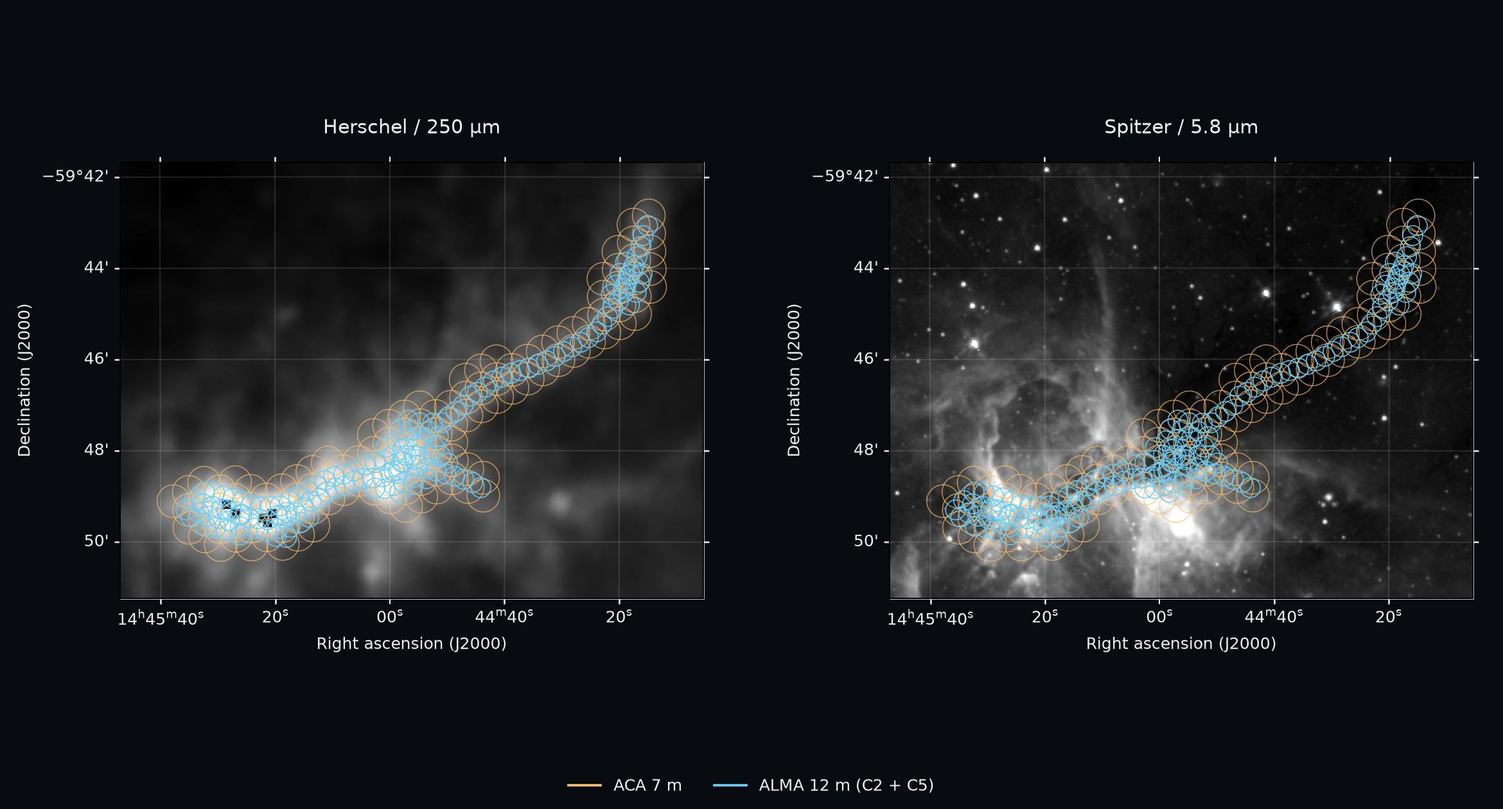
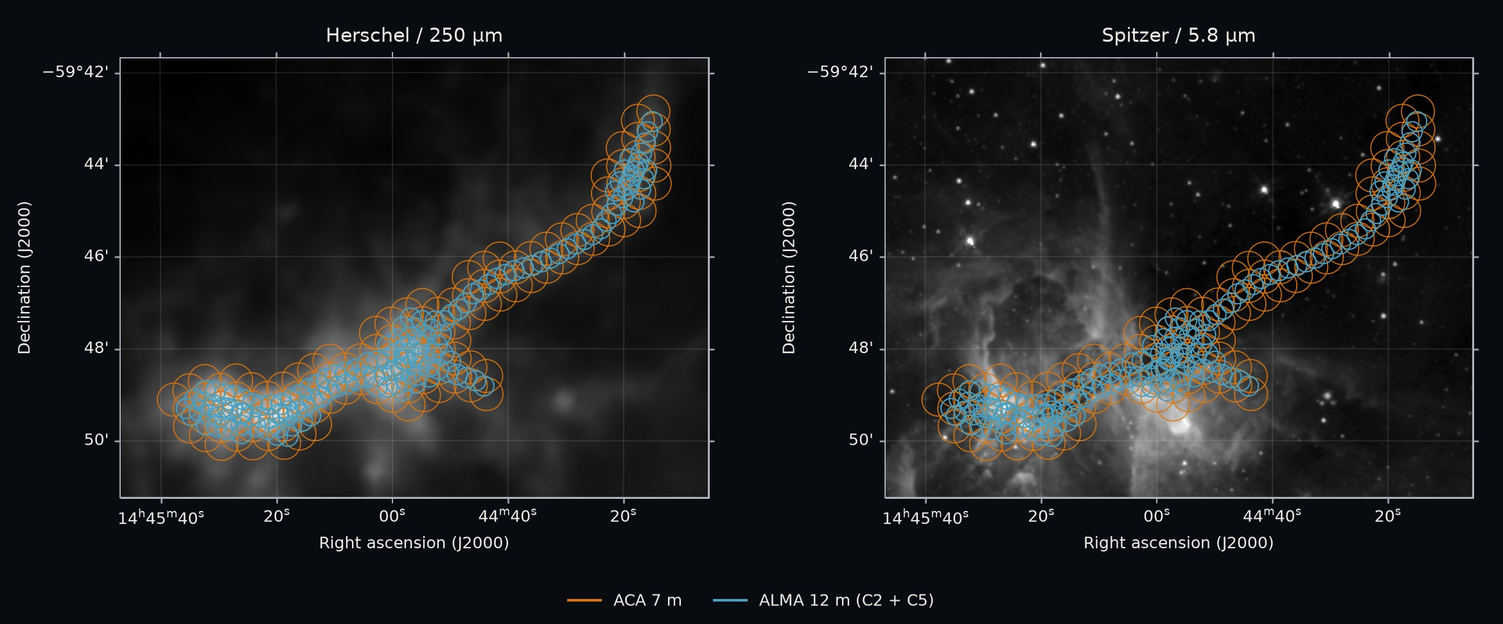
Website: footprint figure redrawn for the dark page
Darker grey maps with the saturated Herschel pixels filled, the Fig. 2
dark-mode array colours (7 m orange, 12 m teal), site text and axis colours,
and a tighter layout. Caption names the colours.

diff --git a/website/observations.html b/website/observations.html
@@ -1,1 +1,1 @@
-<!doctype html><html lang="en"><head><meta charset="utf-8"><meta name="viewport" content="width=device-width,initial-scale=1"><meta name="description" content="LANCET explores how gas assembles into stars and clusters in the G316.8 filament."><title>Observations · LANCET</title><link rel="stylesheet" href="style.css?v=open-source-1"><link rel="icon" href="assets/favicon.svg" type="image/svg+xml"><link rel="apple-touch-icon" href="assets/apple-touch-icon.png"><meta name="theme-color" content="#080b10"><link rel="canonical" href="https://xfengwei.github.io/LANCET/observations.html"><meta property="og:type" content="website"><meta property="og:site_name" content="LANCET"><meta property="og:title" content="Observations · LANCET"><meta property="og:description" content="LANCET explores how gas assembles into stars and clusters in the G316.8 filament."><meta property="og:url" content="https://xfengwei.github.io/LANCET/observations.html"><meta property="og:image" content="https://xfengwei.github.io/LANCET/assets/og-image.jpg"><meta property="og:image:width" content="1200"><meta property="og:image:height" content="630"><meta property="og:image:alt" content="The LANCET logo over a near-infrared view of the G316.8 filament"><meta name="twitter:card" content="summary_large_image"><script>document.documentElement.classList.add('js-reveal')</script></head><body><a class="skip" href="#main">Skip to content</a><header><a class="brand logo-brand" href="index.html" aria-label="LANCET home"><img src="assets/lancet-logo-web.webp?v=alpha-1" alt="LANCET" width="600" height="400"></a><nav aria-label="Main navigation"><a  href='index.html'>The project</a><a aria-current='page' href='observations.html'>Observations</a><a  href='research.html'>Research</a><a  href='team.html'>Our team</a></nav><a class="code" href="https://github.com/XFengwei/LANCET" target="_blank" rel="noopener noreferrer">Code ↗</a></header><main id="main"><section class="page-top"><span class="eyebrow">Our window into the cloud</span><h1>Collecting<br><em>faint light.</em></h1><p class="lead">Complementary telescopes connect the extended reservoir to the compact structures within it.</p></section><div class="telescope-gallery reveal" data-hold="8000"><button type="button" class="gallery-step" data-step="-1" aria-label="Previous telescopes">‹</button><div class="telescope-rows"><div class="gallery-row telescope-row--main is-visible"><a class="telescope-card telescope-card--main" href="https://www.almaobservatory.org/"><img src="assets/telescope-alma-ann13016a.jpg" alt="ALMA antennas at night beneath the Magellanic Clouds" loading="lazy"><div class="telescope-copy"><span class="eyebrow">1.3 <span class="unit">mm</span> / continuum & spectral lines</span><h3>ALMA <span aria-hidden="true">↗</span></h3><p>The 12 m C2 and C5 configurations and the ACA 7 m array resolve dense cores in the 1.3 mm continuum and in lines such as C¹⁸O, CO, H₂CO, ¹³CS and N₂D⁺; total-power line data recover the extended gas.</p><small>Image: ESO / C. Malin</small></div></a></div><div class="gallery-row"><a class="telescope-card" href="https://www.esa.int/Science_Exploration/Space_Science/Herschel"><img src="assets/telescope-herschel.jpg" alt="Artist’s impression of the Herschel space telescope" loading="lazy"><div class="telescope-copy"><span class="eyebrow">70–500 <span class="unit">μm</span> / far infrared</span><h3>Herschel <span aria-hidden="true">↗</span></h3><p>PACS and SPIRE dust maps set the temperature and column density of the whole cloud.</p><small>Image: ESA / AOES Medialab · artist’s impression</small></div></a><a class="telescope-card" href="https://www.apex-telescope.org/"><img src="assets/telescope-apex-mpifr.jpg" alt="The APEX telescope on the Chajnantor plateau" loading="lazy"><div class="telescope-copy"><span class="eyebrow">350 & 450 <span class="unit">μm</span> / 1.3 <span class="unit">mm</span></span><h3>APEX <span aria-hidden="true">↗</span></h3><p>ArTéMiS sharpens the cold-dust structure; nFLASH230 lines probe the molecular gas.</p><small>Image: MPIfR</small></div></a><a class="telescope-card" href="https://science.nasa.gov/mission/spitzer/"><img src="assets/telescope-spitzer-infrared.jpg" alt="Artist’s impression of the Spitzer space telescope against an infrared sky" loading="lazy"><div class="telescope-copy"><span class="eyebrow">3.6–8.0 <span class="unit">μm</span> / mid infrared</span><h3>Spitzer <span aria-hidden="true">↗</span></h3><p>GLIMPSE images reveal infrared-dark gas, embedded sources and the bright H II regions.</p><small>Image: NASA / JPL-Caltech / R. Hurt (SSC) · artist’s impression</small></div></a></div><div class="gallery-row"><a class="telescope-card" href="https://www.eso.org/public/teles-instr/paranal-observatory/surveytelescopes/vista/"><img src="assets/telescope-vista.jpg" alt="VISTA telescope inside its enclosure at Paranal" loading="lazy"><div class="telescope-copy"><span class="eyebrow">1.25–2.15 <span class="unit">μm</span> / near infrared</span><h3>VISTA <span aria-hidden="true">↗</span></h3><p>VVV J, H and Kₛ images trace stars and extinction from the dark north to the H II regions.</p><small>Image: ESO</small></div></a><a class="telescope-card" href="https://www.atnf.csiro.au/facilities/australia-telescope-compact-array/"><img src="assets/telescope-atca.jpg" alt="Radio dishes of the Australia Telescope Compact Array" loading="lazy"><div class="telescope-copy"><span class="eyebrow">5.5 <span class="unit">GHz</span> / 5.5 <span class="unit">cm</span></span><h3>ATCA <span aria-hidden="true">↗</span></h3><p>CORNISH-South maps the ionized gas at 2.5″, constraining free-free emission at 1.3 mm.</p><small>Image: CSIRO</small></div></a><a class="telescope-card" href="https://www.sarao.ac.za/science/meerkat/"><img src="assets/telescope-meerkat.jpg" alt="MeerKAT radio interferometer in the Karoo" loading="lazy"><div class="telescope-copy"><span class="eyebrow">0.9–1.6 <span class="unit">GHz</span> / 19–33 <span class="unit">cm</span></span><h3>MeerKAT <span aria-hidden="true">↗</span></h3><p>The Galactic Plane Survey maps the extended radio continuum; with ATCA it fixes the free-free part.</p><small>Image: SARAO</small></div></a></div></div><button type="button" class="gallery-step" data-step="1" aria-label="Next telescopes">›</button></div><section class="reveal"><div class="section-head"><div><span class="eyebrow">A closer look</span><h2>The invisible, revealed.</h2></div><a href="#footprint">See the ALMA pointing footprint ↓</a></div><figure class="wavelength-gallery" data-hold="8000"><div class="gallery-frames"><img class="gallery-frame is-visible" src="assets/gallery-nir.jpg?v=gallery-3" alt="Near-infrared view of G316.8 with wavelength label, compass and scale bar"><img class="gallery-frame" src="assets/gallery-mir.jpg?v=gallery-3" alt="Mid-infrared view of G316.8 with wavelength label, compass and scale bar"><img class="gallery-frame" src="assets/gallery-fir.jpg?v=gallery-3" alt="Far-infrared view of G316.8 with wavelength label, compass and scale bar"><img class="gallery-frame" src="assets/gallery-mm.jpg?v=gallery-4" alt="Millimeter view of G316.8 with wavelength label, compass and scale bar"><img class="gallery-frame" src="assets/gallery-radio.jpg?v=gallery-3" alt="Radio view of G316.8 with wavelength label, compass and scale bar"></div><div class="gallery-buttons" role="group" aria-label="Choose wavelength"><button type="button" aria-pressed="true">Near-infrared</button><button type="button" aria-pressed="false">Mid-infrared</button><button type="button" aria-pressed="false">Far-infrared</button><button type="button" aria-pressed="false">Millimeter</button><button type="button" aria-pressed="false">Radio</button></div><figcaption>The same filament across five wavelength ranges, from near-infrared to radio. Select a wavelength to hold it for eight seconds, after which the five-second crossfades resume.</figcaption></figure></section><section id="footprint" class="reveal"><span class="eyebrow">The ALMA pointing footprint</span><h2>Entire filament, fully covered.</h2><figure><a href="assets/footprints.jpg"><img class="science-image" src="assets/footprints.jpg" alt="ACA 7 m and ALMA 12 m pointing footprints over Herschel 250 micron and Spitzer 5.8 micron maps"></a><figcaption>Actual pointing centres (12 m C2 and C5 share the same blue color) over Herschel 250 μm and Spitzer 5.8 μm maps. Circles show approximate primary-beam FWHM at 225 GHz: 43 arcsec for 7 m and 26 arcsec for 12 m. These illustrate individual fields, not a uniform mosaic sensitivity boundary. Click to enlarge.</figcaption></figure></section><section class="reveal"><span class="eyebrow">Continuum / from sampling to structure</span><h2>Recovering the full picture.</h2><p>Our continuum workflow combines the ALMA 12 m and ACA 7 m images with a total-power model of the extended emission, in the Fourier (uv) plane. Each step below shows the evidence behind the resulting image.</p><div class="workflow-step"><h3>01 / Pointings and spatial-frequency coverage</h3><p>Each array samples a different range of spatial frequencies. The total-power (TP) model fills the shortest spacings that no interferometer measures, and the combined image follows the TP model on large scales and the interferometers on small ones.</p><figure><a href="assets/coverage.jpg?v=jcomb-1"><img class="science-image" loading="lazy" src="assets/coverage.jpg?v=jcomb-1" alt="Three panels: ACA 7 m and ALMA 12 m pointing centres along the filament; uv coverage of the 12 m C5 and C2 configurations and the 7 m array, with the TP response at the centre; and amplitude against uv distance for each array, the TP model, the 12 m + 7 m image and the combined image."></a><figcaption>(a) Pointing centres of the ACA 7 m and ALMA 12 m mosaics. (b) uv coverage of the 12 m C5 and C2 configurations and the 7 m array; the inset enlarges the shortest spacings, where the grey discs mark the TP response. (c) Amplitude against uv distance for each array, the TP model with and without its 18″ beam, and the images before (12 m + 7 m) and after combination; dots below show where each observation samples. Website version of Paper II Fig. 2, drawn on the page background. Click to view at full size.</figcaption></figure></div><div class="workflow-step"><h3>02 / Combining arrays and restoring extended emission</h3><p>From individual arrays to the fully combined continuum: compare compact structure and extended emission across the full filament.</p><figure class="wavelength-gallery" data-hold="8000"><div class="gallery-frames array-gallery-frames"><img class="gallery-frame is-visible" src="assets/array-aca.jpg?v=array-jcomb" alt="ACA 7 m, full filament view with a shared surface-brightness colour bar"><img class="gallery-frame" src="assets/array-12m.jpg?v=array-jcomb" alt="ALMA 12 m, full filament view with a shared surface-brightness colour bar"><img class="gallery-frame" src="assets/array-combined.jpg?v=array-jcomb" alt="12 m + 7 m, full filament view with a shared surface-brightness colour bar"><img class="gallery-frame" src="assets/array-tp.jpg?v=array-jcomb" alt="Total power, full filament view with a shared surface-brightness colour bar"><img class="gallery-frame" src="assets/array-full.jpg?v=array-jcomb" alt="Fully combined, full filament view with a shared surface-brightness colour bar"></div><div class="gallery-buttons" role="group" aria-label="Choose continuum product"><button type="button" aria-pressed="true">ACA 7 m</button><button type="button" aria-pressed="false">ALMA 12 m</button><button type="button" aria-pressed="false">12 m + 7 m</button><button type="button" aria-pressed="false">Total power</button><button type="button" aria-pressed="false">Fully combined</button></div><figcaption>All five views share the millimeter panel’s 14 × 4 arcmin field, rotation and inferno colour scale (0–1200 MJy/sr, square-root stretch). Total power is the dust-plus-free-free continuum model at its own flux scale; J-comb combines it with the 12 m + 7 m image in the uv plane to restore the extended emission. Beyond the interferometric mosaic the fully combined view shows the total-power model, cross-faded in over the mosaic edge. Images keep their native angular resolutions. Select a product to hold it for eight seconds, after which the five-second crossfades resume.</figcaption></figure></div></section><section class="reveal"><span class="eyebrow">Spectral line setups</span><h2>Resolving the gas in velocity.</h2><p>The ACA setup documented in Paper I combines six narrow windows with two broad windows. The table lists the dedicated targets and selected candidate lines within the broad-window coverage; coverage does not imply detection. Rest frequencies and observing-window centres are shown separately.</p><div class="table-wrap"><table><thead><tr><th>Molecule / transition</th><th>Rest frequency (GHz)</th><th>Window centre (GHz)</th><th>Channel spacing (kHz)</th><th>Velocity spacing (km/s)</th><th>Nominal resolution¹ (km/s)</th></tr></thead><tbody><tr><th colspan="6" scope="colgroup">Dedicated narrow windows</th></tr><tr><td>H₂CO 3₀₃–2₀₂</td><td>218.222</td><td>218.248</td><td>61</td><td>0.084</td><td>0.168</td></tr><tr><td>H₂CO 3₂₂–2₂₁</td><td>218.476</td><td>218.484</td><td>61</td><td>0.084</td><td>0.167</td></tr><tr><td>C¹⁸O 2–1</td><td>219.560</td><td>219.587</td><td>61</td><td>0.083</td><td>0.167</td></tr><tr><td>CO 2–1</td><td>230.538</td><td>230.565</td><td>61</td><td>0.079</td><td>0.159</td></tr><tr><td>¹³CS 5–4</td><td>231.220</td><td>231.249</td><td>61</td><td>0.079</td><td>0.158</td></tr><tr><td>N₂D⁺ 3–2</td><td>231.322</td><td>231.350</td><td>61</td><td>0.079</td><td>0.158</td></tr><tr><th colspan="6" scope="colgroup">Broad window 1 / 215.795–217.670 GHz (1.875 GHz bandwidth)</th></tr><tr><td>DCO⁺ 3–2</td><td>216.113</td><td>216.732</td><td>488</td><td>0.677</td><td>1.354</td></tr><tr><td>SiO 5–4</td><td>217.105</td><td>216.732</td><td>488</td><td>0.674</td><td>1.348</td></tr><tr><td>DCN 3–2</td><td>217.239</td><td>216.732</td><td>488</td><td>0.673</td><td>1.347</td></tr><tr><th colspan="6" scope="colgroup">Broad window 2 / 230.003–231.878 GHz (1.875 GHz bandwidth)</th></tr><tr><td>CO 2–1</td><td>230.538</td><td>230.940</td><td>488</td><td>0.635</td><td>1.269</td></tr><tr><td>OCS 19–18</td><td>231.061</td><td>230.940</td><td>488</td><td>0.633</td><td>1.266</td></tr></tbody></table></div><p>Broad-window ranges are nominal; usable coverage depends on Doppler shifts and edge flagging. CO 2–1 is also covered by a dedicated narrow window with finer spectral sampling.</p><p>¹ Velocity spacing is calculated as c Δν/ν using the channel widths reported in Paper I. Nominal resolution assumes Hanning smoothing without channel averaging (twice the channel spacing); the effective resolution of delivered cubes depends on the actual averaging, smoothing, and regridding.</p></section><section class="technical reveal"><span class="eyebrow">Open source</span><p class="lead open-source-text">The code behind every image and number on this site is public, with its settings recorded alongside. The observational data will be released with it, so that each result can be reproduced from the data up.</p><div class="button-row"><a class="button" href="https://github.com/XFengwei/LANCET" target="_blank" rel="noopener noreferrer">Code on GitHub <span>↗</span></a><a class="button" href="data.html">Data release <span>→</span></a></div></section></main><footer><a class="brand logo-brand" href="index.html" aria-label="LANCET home"><img src="assets/lancet-logo-web.webp?v=alpha-1" alt="LANCET" width="600" height="400"></a><p>Linear filament and nested cluster evolution tomography</p><a href="https://github.com/XFengwei/LANCET" target="_blank" rel="noopener noreferrer">Explore the repository ↗</a></footer><script src="reveal.js?v=3" defer></script><script src="gallery.js?v=telescope-arrows-1" defer></script></body></html>
+<!doctype html><html lang="en"><head><meta charset="utf-8"><meta name="viewport" content="width=device-width,initial-scale=1"><meta name="description" content="LANCET explores how gas assembles into stars and clusters in the G316.8 filament."><title>Observations · LANCET</title><link rel="stylesheet" href="style.css?v=open-source-1"><link rel="icon" href="assets/favicon.svg" type="image/svg+xml"><link rel="apple-touch-icon" href="assets/apple-touch-icon.png"><meta name="theme-color" content="#080b10"><link rel="canonical" href="https://xfengwei.github.io/LANCET/observations.html"><meta property="og:type" content="website"><meta property="og:site_name" content="LANCET"><meta property="og:title" content="Observations · LANCET"><meta property="og:description" content="LANCET explores how gas assembles into stars and clusters in the G316.8 filament."><meta property="og:url" content="https://xfengwei.github.io/LANCET/observations.html"><meta property="og:image" content="https://xfengwei.github.io/LANCET/assets/og-image.jpg"><meta property="og:image:width" content="1200"><meta property="og:image:height" content="630"><meta property="og:image:alt" content="The LANCET logo over a near-infrared view of the G316.8 filament"><meta name="twitter:card" content="summary_large_image"><script>document.documentElement.classList.add('js-reveal')</script></head><body><a class="skip" href="#main">Skip to content</a><header><a class="brand logo-brand" href="index.html" aria-label="LANCET home"><img src="assets/lancet-logo-web.webp?v=alpha-1" alt="LANCET" width="600" height="400"></a><nav aria-label="Main navigation"><a  href='index.html'>The project</a><a aria-current='page' href='observations.html'>Observations</a><a  href='research.html'>Research</a><a  href='team.html'>Our team</a></nav><a class="code" href="https://github.com/XFengwei/LANCET" target="_blank" rel="noopener noreferrer">Code ↗</a></header><main id="main"><section class="page-top"><span class="eyebrow">Our window into the cloud</span><h1>Collecting<br><em>faint light.</em></h1><p class="lead">Complementary telescopes connect the extended reservoir to the compact structures within it.</p></section><div class="telescope-gallery reveal" data-hold="8000"><button type="button" class="gallery-step" data-step="-1" aria-label="Previous telescopes">‹</button><div class="telescope-rows"><div class="gallery-row telescope-row--main is-visible"><a class="telescope-card telescope-card--main" href="https://www.almaobservatory.org/"><img src="assets/telescope-alma-ann13016a.jpg" alt="ALMA antennas at night beneath the Magellanic Clouds" loading="lazy"><div class="telescope-copy"><span class="eyebrow">1.3 <span class="unit">mm</span> / continuum & spectral lines</span><h3>ALMA <span aria-hidden="true">↗</span></h3><p>The 12 m C2 and C5 configurations and the ACA 7 m array resolve dense cores in the 1.3 mm continuum and in lines such as C¹⁸O, CO, H₂CO, ¹³CS and N₂D⁺; total-power line data recover the extended gas.</p><small>Image: ESO / C. Malin</small></div></a></div><div class="gallery-row"><a class="telescope-card" href="https://www.esa.int/Science_Exploration/Space_Science/Herschel"><img src="assets/telescope-herschel.jpg" alt="Artist’s impression of the Herschel space telescope" loading="lazy"><div class="telescope-copy"><span class="eyebrow">70–500 <span class="unit">μm</span> / far infrared</span><h3>Herschel <span aria-hidden="true">↗</span></h3><p>PACS and SPIRE dust maps set the temperature and column density of the whole cloud.</p><small>Image: ESA / AOES Medialab · artist’s impression</small></div></a><a class="telescope-card" href="https://www.apex-telescope.org/"><img src="assets/telescope-apex-mpifr.jpg" alt="The APEX telescope on the Chajnantor plateau" loading="lazy"><div class="telescope-copy"><span class="eyebrow">350 & 450 <span class="unit">μm</span> / 1.3 <span class="unit">mm</span></span><h3>APEX <span aria-hidden="true">↗</span></h3><p>ArTéMiS sharpens the cold-dust structure; nFLASH230 lines probe the molecular gas.</p><small>Image: MPIfR</small></div></a><a class="telescope-card" href="https://science.nasa.gov/mission/spitzer/"><img src="assets/telescope-spitzer-infrared.jpg" alt="Artist’s impression of the Spitzer space telescope against an infrared sky" loading="lazy"><div class="telescope-copy"><span class="eyebrow">3.6–8.0 <span class="unit">μm</span> / mid infrared</span><h3>Spitzer <span aria-hidden="true">↗</span></h3><p>GLIMPSE images reveal infrared-dark gas, embedded sources and the bright H II regions.</p><small>Image: NASA / JPL-Caltech / R. Hurt (SSC) · artist’s impression</small></div></a></div><div class="gallery-row"><a class="telescope-card" href="https://www.eso.org/public/teles-instr/paranal-observatory/surveytelescopes/vista/"><img src="assets/telescope-vista.jpg" alt="VISTA telescope inside its enclosure at Paranal" loading="lazy"><div class="telescope-copy"><span class="eyebrow">1.25–2.15 <span class="unit">μm</span> / near infrared</span><h3>VISTA <span aria-hidden="true">↗</span></h3><p>VVV J, H and Kₛ images trace stars and extinction from the dark north to the H II regions.</p><small>Image: ESO</small></div></a><a class="telescope-card" href="https://www.atnf.csiro.au/facilities/australia-telescope-compact-array/"><img src="assets/telescope-atca.jpg" alt="Radio dishes of the Australia Telescope Compact Array" loading="lazy"><div class="telescope-copy"><span class="eyebrow">5.5 <span class="unit">GHz</span> / 5.5 <span class="unit">cm</span></span><h3>ATCA <span aria-hidden="true">↗</span></h3><p>CORNISH-South maps the ionized gas at 2.5″, constraining free-free emission at 1.3 mm.</p><small>Image: CSIRO</small></div></a><a class="telescope-card" href="https://www.sarao.ac.za/science/meerkat/"><img src="assets/telescope-meerkat.jpg" alt="MeerKAT radio interferometer in the Karoo" loading="lazy"><div class="telescope-copy"><span class="eyebrow">0.9–1.6 <span class="unit">GHz</span> / 19–33 <span class="unit">cm</span></span><h3>MeerKAT <span aria-hidden="true">↗</span></h3><p>The Galactic Plane Survey maps the extended radio continuum; with ATCA it fixes the free-free part.</p><small>Image: SARAO</small></div></a></div></div><button type="button" class="gallery-step" data-step="1" aria-label="Next telescopes">›</button></div><section class="reveal"><div class="section-head"><div><span class="eyebrow">A closer look</span><h2>The invisible, revealed.</h2></div><a href="#footprint">See the ALMA pointing footprint ↓</a></div><figure class="wavelength-gallery" data-hold="8000"><div class="gallery-frames"><img class="gallery-frame is-visible" src="assets/gallery-nir.jpg?v=gallery-3" alt="Near-infrared view of G316.8 with wavelength label, compass and scale bar"><img class="gallery-frame" src="assets/gallery-mir.jpg?v=gallery-3" alt="Mid-infrared view of G316.8 with wavelength label, compass and scale bar"><img class="gallery-frame" src="assets/gallery-fir.jpg?v=gallery-3" alt="Far-infrared view of G316.8 with wavelength label, compass and scale bar"><img class="gallery-frame" src="assets/gallery-mm.jpg?v=gallery-4" alt="Millimeter view of G316.8 with wavelength label, compass and scale bar"><img class="gallery-frame" src="assets/gallery-radio.jpg?v=gallery-3" alt="Radio view of G316.8 with wavelength label, compass and scale bar"></div><div class="gallery-buttons" role="group" aria-label="Choose wavelength"><button type="button" aria-pressed="true">Near-infrared</button><button type="button" aria-pressed="false">Mid-infrared</button><button type="button" aria-pressed="false">Far-infrared</button><button type="button" aria-pressed="false">Millimeter</button><button type="button" aria-pressed="false">Radio</button></div><figcaption>The same filament across five wavelength ranges, from near-infrared to radio. Select a wavelength to hold it for eight seconds, after which the five-second crossfades resume.</figcaption></figure></section><section id="footprint" class="reveal"><span class="eyebrow">The ALMA pointing footprint</span><h2>Entire filament, fully covered.</h2><figure><a href="assets/footprints.jpg?v=dark-1"><img class="science-image" src="assets/footprints.jpg?v=dark-1" alt="ACA 7 m and ALMA 12 m pointing footprints over Herschel 250 micron and Spitzer 5.8 micron maps"></a><figcaption>Actual pointing centres over Herschel 250 μm and Spitzer 5.8 μm maps: ACA 7 m in orange, ALMA 12 m in teal (the C2 and C5 configurations share it), in the same colours as the uv-coverage figure below. Circles show approximate primary-beam FWHM at 225 GHz: 43 arcsec for 7 m and 26 arcsec for 12 m. These illustrate individual fields, not a uniform mosaic sensitivity boundary. Click to enlarge.</figcaption></figure></section><section class="reveal"><span class="eyebrow">Continuum / from sampling to structure</span><h2>Recovering the full picture.</h2><p>Our continuum workflow combines the ALMA 12 m and ACA 7 m images with a total-power model of the extended emission, in the Fourier (uv) plane. Each step below shows the evidence behind the resulting image.</p><div class="workflow-step"><h3>01 / Pointings and spatial-frequency coverage</h3><p>Each array samples a different range of spatial frequencies. The total-power (TP) model fills the shortest spacings that no interferometer measures, and the combined image follows the TP model on large scales and the interferometers on small ones.</p><figure><a href="assets/coverage.jpg?v=jcomb-1"><img class="science-image" loading="lazy" src="assets/coverage.jpg?v=jcomb-1" alt="Three panels: ACA 7 m and ALMA 12 m pointing centres along the filament; uv coverage of the 12 m C5 and C2 configurations and the 7 m array, with the TP response at the centre; and amplitude against uv distance for each array, the TP model, the 12 m + 7 m image and the combined image."></a><figcaption>(a) Pointing centres of the ACA 7 m and ALMA 12 m mosaics. (b) uv coverage of the 12 m C5 and C2 configurations and the 7 m array; the inset enlarges the shortest spacings, where the grey discs mark the TP response. (c) Amplitude against uv distance for each array, the TP model with and without its 18″ beam, and the images before (12 m + 7 m) and after combination; dots below show where each observation samples. Website version of Paper II Fig. 2, drawn on the page background. Click to view at full size.</figcaption></figure></div><div class="workflow-step"><h3>02 / Combining arrays and restoring extended emission</h3><p>From individual arrays to the fully combined continuum: compare compact structure and extended emission across the full filament.</p><figure class="wavelength-gallery" data-hold="8000"><div class="gallery-frames array-gallery-frames"><img class="gallery-frame is-visible" src="assets/array-aca.jpg?v=array-jcomb" alt="ACA 7 m, full filament view with a shared surface-brightness colour bar"><img class="gallery-frame" src="assets/array-12m.jpg?v=array-jcomb" alt="ALMA 12 m, full filament view with a shared surface-brightness colour bar"><img class="gallery-frame" src="assets/array-combined.jpg?v=array-jcomb" alt="12 m + 7 m, full filament view with a shared surface-brightness colour bar"><img class="gallery-frame" src="assets/array-tp.jpg?v=array-jcomb" alt="Total power, full filament view with a shared surface-brightness colour bar"><img class="gallery-frame" src="assets/array-full.jpg?v=array-jcomb" alt="Fully combined, full filament view with a shared surface-brightness colour bar"></div><div class="gallery-buttons" role="group" aria-label="Choose continuum product"><button type="button" aria-pressed="true">ACA 7 m</button><button type="button" aria-pressed="false">ALMA 12 m</button><button type="button" aria-pressed="false">12 m + 7 m</button><button type="button" aria-pressed="false">Total power</button><button type="button" aria-pressed="false">Fully combined</button></div><figcaption>All five views share the millimeter panel’s 14 × 4 arcmin field, rotation and inferno colour scale (0–1200 MJy/sr, square-root stretch). Total power is the dust-plus-free-free continuum model at its own flux scale; J-comb combines it with the 12 m + 7 m image in the uv plane to restore the extended emission. Beyond the interferometric mosaic the fully combined view shows the total-power model, cross-faded in over the mosaic edge. Images keep their native angular resolutions. Select a product to hold it for eight seconds, after which the five-second crossfades resume.</figcaption></figure></div></section><section class="reveal"><span class="eyebrow">Spectral line setups</span><h2>Resolving the gas in velocity.</h2><p>The ACA setup documented in Paper I combines six narrow windows with two broad windows. The table lists the dedicated targets and selected candidate lines within the broad-window coverage; coverage does not imply detection. Rest frequencies and observing-window centres are shown separately.</p><div class="table-wrap"><table><thead><tr><th>Molecule / transition</th><th>Rest frequency (GHz)</th><th>Window centre (GHz)</th><th>Channel spacing (kHz)</th><th>Velocity spacing (km/s)</th><th>Nominal resolution¹ (km/s)</th></tr></thead><tbody><tr><th colspan="6" scope="colgroup">Dedicated narrow windows</th></tr><tr><td>H₂CO 3₀₃–2₀₂</td><td>218.222</td><td>218.248</td><td>61</td><td>0.084</td><td>0.168</td></tr><tr><td>H₂CO 3₂₂–2₂₁</td><td>218.476</td><td>218.484</td><td>61</td><td>0.084</td><td>0.167</td></tr><tr><td>C¹⁸O 2–1</td><td>219.560</td><td>219.587</td><td>61</td><td>0.083</td><td>0.167</td></tr><tr><td>CO 2–1</td><td>230.538</td><td>230.565</td><td>61</td><td>0.079</td><td>0.159</td></tr><tr><td>¹³CS 5–4</td><td>231.220</td><td>231.249</td><td>61</td><td>0.079</td><td>0.158</td></tr><tr><td>N₂D⁺ 3–2</td><td>231.322</td><td>231.350</td><td>61</td><td>0.079</td><td>0.158</td></tr><tr><th colspan="6" scope="colgroup">Broad window 1 / 215.795–217.670 GHz (1.875 GHz bandwidth)</th></tr><tr><td>DCO⁺ 3–2</td><td>216.113</td><td>216.732</td><td>488</td><td>0.677</td><td>1.354</td></tr><tr><td>SiO 5–4</td><td>217.105</td><td>216.732</td><td>488</td><td>0.674</td><td>1.348</td></tr><tr><td>DCN 3–2</td><td>217.239</td><td>216.732</td><td>488</td><td>0.673</td><td>1.347</td></tr><tr><th colspan="6" scope="colgroup">Broad window 2 / 230.003–231.878 GHz (1.875 GHz bandwidth)</th></tr><tr><td>CO 2–1</td><td>230.538</td><td>230.940</td><td>488</td><td>0.635</td><td>1.269</td></tr><tr><td>OCS 19–18</td><td>231.061</td><td>230.940</td><td>488</td><td>0.633</td><td>1.266</td></tr></tbody></table></div><p>Broad-window ranges are nominal; usable coverage depends on Doppler shifts and edge flagging. CO 2–1 is also covered by a dedicated narrow window with finer spectral sampling.</p><p>¹ Velocity spacing is calculated as c Δν/ν using the channel widths reported in Paper I. Nominal resolution assumes Hanning smoothing without channel averaging (twice the channel spacing); the effective resolution of delivered cubes depends on the actual averaging, smoothing, and regridding.</p></section><section class="technical reveal"><span class="eyebrow">Open source</span><p class="lead open-source-text">The code behind every image and number on this site is public, with its settings recorded alongside. The observational data will be released with it, so that each result can be reproduced from the data up.</p><div class="button-row"><a class="button" href="https://github.com/XFengwei/LANCET" target="_blank" rel="noopener noreferrer">Code on GitHub <span>↗</span></a><a class="button" href="data.html">Data release <span>→</span></a></div></section></main><footer><a class="brand logo-brand" href="index.html" aria-label="LANCET home"><img src="assets/lancet-logo-web.webp?v=alpha-1" alt="LANCET" width="600" height="400"></a><p>Linear filament and nested cluster evolution tomography</p><a href="https://github.com/XFengwei/LANCET" target="_blank" rel="noopener noreferrer">Explore the repository ↗</a></footer><script src="reveal.js?v=3" defer></script><script src="gallery.js?v=telescope-arrows-1" defer></script></body></html>

diff --git a/website/tools/build_footprints.py b/website/tools/build_footprints.py
@@ -1,9 +1,19 @@
-"""Render web footprint maps from existing FITS images and pointing metadata.
+"""Render the ALMA pointing-footprint figure for the dark Observations page.
+
 Run from the repository root with the project's py312 Python environment.
-Circles indicate approximate primary-beam FWHM at 225 GHz, not sensitivity contours.
+Circles mark the approximate primary-beam FWHM at 225 GHz (43" for 7 m, 26" for
+12 m) around each actual pointing centre; they are not sensitivity contours.
+
+Dark-page rules (website/README.md, "Design essentials"): page background
+#080b10, text #ecece8, axes #a6adb6; each array keeps its Fig. 2 dark-mode
+colour (lancet.combination.coverage_figure.THEMES["dark"]): 7 m orange,
+12 m teal (C2 and C5 share it, as in Fig. 2 panel a). The maps use a dark
+grey stretch so the circles read on top of them.
 """
 from pathlib import Path
 import json
+import sys
+
 import numpy as np
 import matplotlib
 matplotlib.use('Agg')
@@ -11,29 +21,85 @@ import matplotlib.pyplot as plt
 from matplotlib.lines import Line2D
 from astropy.io import fits
 from astropy.wcs import WCS
-from astropy.coordinates import SkyCoord
-from reproject import reproject_interp
-from astropy.visualization import simple_norm
+from astropy.visualization import AsinhStretch, ImageNormalize, PercentileInterval
 from astropy.visualization.wcsaxes import SphericalCircle
 import astropy.units as u
-root=Path(__file__).resolve().parents[2]
-arrays=[('ACA 7 m','results/combine_continuum/diagnostics/overlap_tests/aca_7m_metadata.json',43,'#ffbc69'),('ALMA 12 m C2','results/combine_continuum/diagnostics/full_sampling/configuration_c2_metadata.json',26,'#66cfff'),('ALMA 12 m C5','results/combine_continuum/diagnostics/full_sampling/configuration_c5_metadata.json',26,'#66cfff')]
-plt.rcParams.update({'text.color':'#eeeeee','axes.labelcolor':'#eeeeee','xtick.color':'#eeeeee','ytick.color':'#eeeeee','font.size':10})
-fig=plt.figure(figsize=(13,7),facecolor='#080b10')
-for i,(file,title) in enumerate([('image_HHLI-SPIRE250.fits','Herschel / 250 μm'),('image_GLIMPSE-IRAC3.fits','Spitzer / 5.8 μm')]):
- hdus=fits.open(root/'data/delivered/archive/infrared'/file); h=next(x for x in hdus if x.data is not None and x.data.ndim>=2); w=WCS(h.header).celestial; d=np.squeeze(h.data)
- target=WCS(naxis=2); target.wcs.ctype=['RA---TAN','DEC--TAN']; target.wcs.crval=[221.25,-59.8]; target.wcs.crpix=[301,301]; target.wcs.cdelt=[-2.0/3600,2.0/3600]; d,_=reproject_interp((d,w),target,shape_out=(600,600)); w=target
- ax=fig.add_subplot(1,2,i+1,projection=w);ax.set_facecolor('#080b10')
- ax.imshow(d,origin='lower',cmap='gray',norm=simple_norm(d,'asinh',percent=99.5))
- coords=[]
- for name,path,beam,color in arrays:
-  fields=json.loads((root/path).read_text())['subtables']['FIELD']
-  for field in fields:
-   ra,dec=np.rad2deg(np.asarray(field['PHASE_DIR']).flatten());ra%=360
-   coords.append(w.world_to_pixel_values(ra,dec))
-   ax.add_patch(SphericalCircle((ra*u.deg,dec*u.deg),beam/7200*u.deg,edgecolor=color,facecolor='none',lw=.55,alpha=.75,transform=ax.get_transform('world')))
- xy=np.array(coords); ax.set_xlim(xy[:,0].min()-35,xy[:,0].max()+35);ax.set_ylim(xy[:,1].min()-35,xy[:,1].max()+35)
- ax.set_title(title,pad=18);ax.set_xlabel('Right ascension (J2000)');ax.set_ylabel('Declination (J2000)');ax.coords.grid(alpha=.12,color='white')
-fig.legend([Line2D([],[],color='#ffbc69'),Line2D([],[],color='#66cfff')],['ACA 7 m','ALMA 12 m (C2 + C5)'],loc='lower center',ncol=2,frameon=False)
-fig.subplots_adjust(left=.08,right=.98,top=.91,bottom=.15,wspace=.32)
-fig.savefig(root/'website/assets/footprints.jpg',dpi=180,facecolor=fig.get_facecolor())
+from reproject import reproject_interp
+from scipy import ndimage
+
+ROOT = Path(__file__).resolve().parents[2]
+sys.path.insert(0, str(ROOT/'src'))
+from lancet.combination.coverage_figure import THEMES
+
+DARK = THEMES['dark']
+BACKGROUND, TEXT, AXIS = DARK['background'], DARK['text'], DARK['axis']
+ACA, TWELVE = DARK['arrays']['aca_7m'], DARK['arrays']['configuration_c2']
+DIAGNOSTICS = ROOT/'results/combine_continuum/diagnostics'
+ARRAYS = [
+    (DIAGNOSTICS/'overlap_tests/aca_7m_metadata.json', 43, ACA),
+    (DIAGNOSTICS/'full_sampling/configuration_c2_metadata.json', 26, TWELVE),
+    (DIAGNOSTICS/'full_sampling/configuration_c5_metadata.json', 26, TWELVE),
+]
+MAPS = [('image_HHLI-SPIRE250.fits', 'Herschel / 250 μm'), ('image_GLIMPSE-IRAC3.fits', 'Spitzer / 5.8 μm')]
+# Grey map shown between black and this level, so the filament stays mid-grey.
+MAP_CEILING = 0.72
+
+
+def grid_wcs():
+    target = WCS(naxis=2)
+    target.wcs.ctype = ['RA---TAN', 'DEC--TAN']
+    target.wcs.crval = [221.25, -59.8]
+    target.wcs.crpix = [301, 301]
+    target.wcs.cdelt = [-2.0/3600, 2.0/3600]
+    return target
+
+
+def fill_blanks(image):
+    """Fill blank (saturated) pixels from their nearest valid neighbour."""
+    blank = ~np.isfinite(image)
+    if not blank.any():
+        return image
+    _, (rows, cols) = ndimage.distance_transform_edt(blank, return_indices=True)
+    return image[rows, cols]
+
+
+def pointings(path):
+    for field in json.loads(path.read_text())['subtables']['FIELD']:
+        ra, dec = np.rad2deg(np.asarray(field['PHASE_DIR']).flatten())
+        yield ra % 360, dec
+
+
+plt.rcParams.update({'text.color': TEXT, 'axes.labelcolor': TEXT, 'xtick.color': AXIS,
+                     'ytick.color': AXIS, 'axes.edgecolor': AXIS, 'font.size': 10})
+fig = plt.figure(figsize=(13, 5.4), facecolor=BACKGROUND)
+wcs = grid_wcs()
+for index, (name, title) in enumerate(MAPS):
+    with fits.open(ROOT/'data/delivered/archive/infrared'/name) as hdus:
+        hdu = next(x for x in hdus if x.data is not None and x.data.ndim >= 2)
+        data, _ = reproject_interp((np.squeeze(hdu.data), WCS(hdu.header).celestial), wcs, shape_out=(600, 600))
+    data = fill_blanks(data)
+    norm = ImageNormalize(data, interval=PercentileInterval(99.5), stretch=AsinhStretch())
+    ax = fig.add_subplot(1, 2, index + 1, projection=wcs)
+    ax.set_facecolor(BACKGROUND)
+    ax.imshow(MAP_CEILING*norm(data), origin='lower', cmap='gray', vmin=0, vmax=1)
+    xy = []
+    for path, beam_arcsec, colour in ARRAYS:
+        for ra, dec in pointings(path):
+            xy.append(wcs.world_to_pixel_values(ra, dec))
+            ax.add_patch(SphericalCircle((ra*u.deg, dec*u.deg), beam_arcsec/7200*u.deg, edgecolor=colour,
+                                         facecolor='none', lw=.7, alpha=.9, transform=ax.get_transform('world')))
+    xy = np.array(xy)
+    ax.set_xlim(xy[:, 0].min() - 35, xy[:, 0].max() + 35)
+    ax.set_ylim(xy[:, 1].min() - 35, xy[:, 1].max() + 35)
+    ax.set_title(title, pad=10, color=TEXT)
+    ax.set_xlabel('Right ascension (J2000)')
+    ax.set_ylabel('Declination (J2000)')
+    ax.coords.grid(alpha=.10, color='white')
+    for coord in ax.coords:
+        coord.set_ticklabel(color=TEXT)
+fig.legend([Line2D([], [], color=ACA, lw=1.6), Line2D([], [], color=TWELVE, lw=1.6)],
+           ['ACA 7 m', 'ALMA 12 m (C2 + C5)'], loc='lower center', ncol=2, frameon=False)
+fig.subplots_adjust(left=.08, right=.98, top=.93, bottom=.18, wspace=.30)
+output = ROOT/'website/assets/footprints.jpg'
+fig.savefig(output, dpi=180, facecolor=BACKGROUND, pil_kwargs={'quality': 90})
+print(f'{output.name}: {fig.get_size_inches()*180}')
